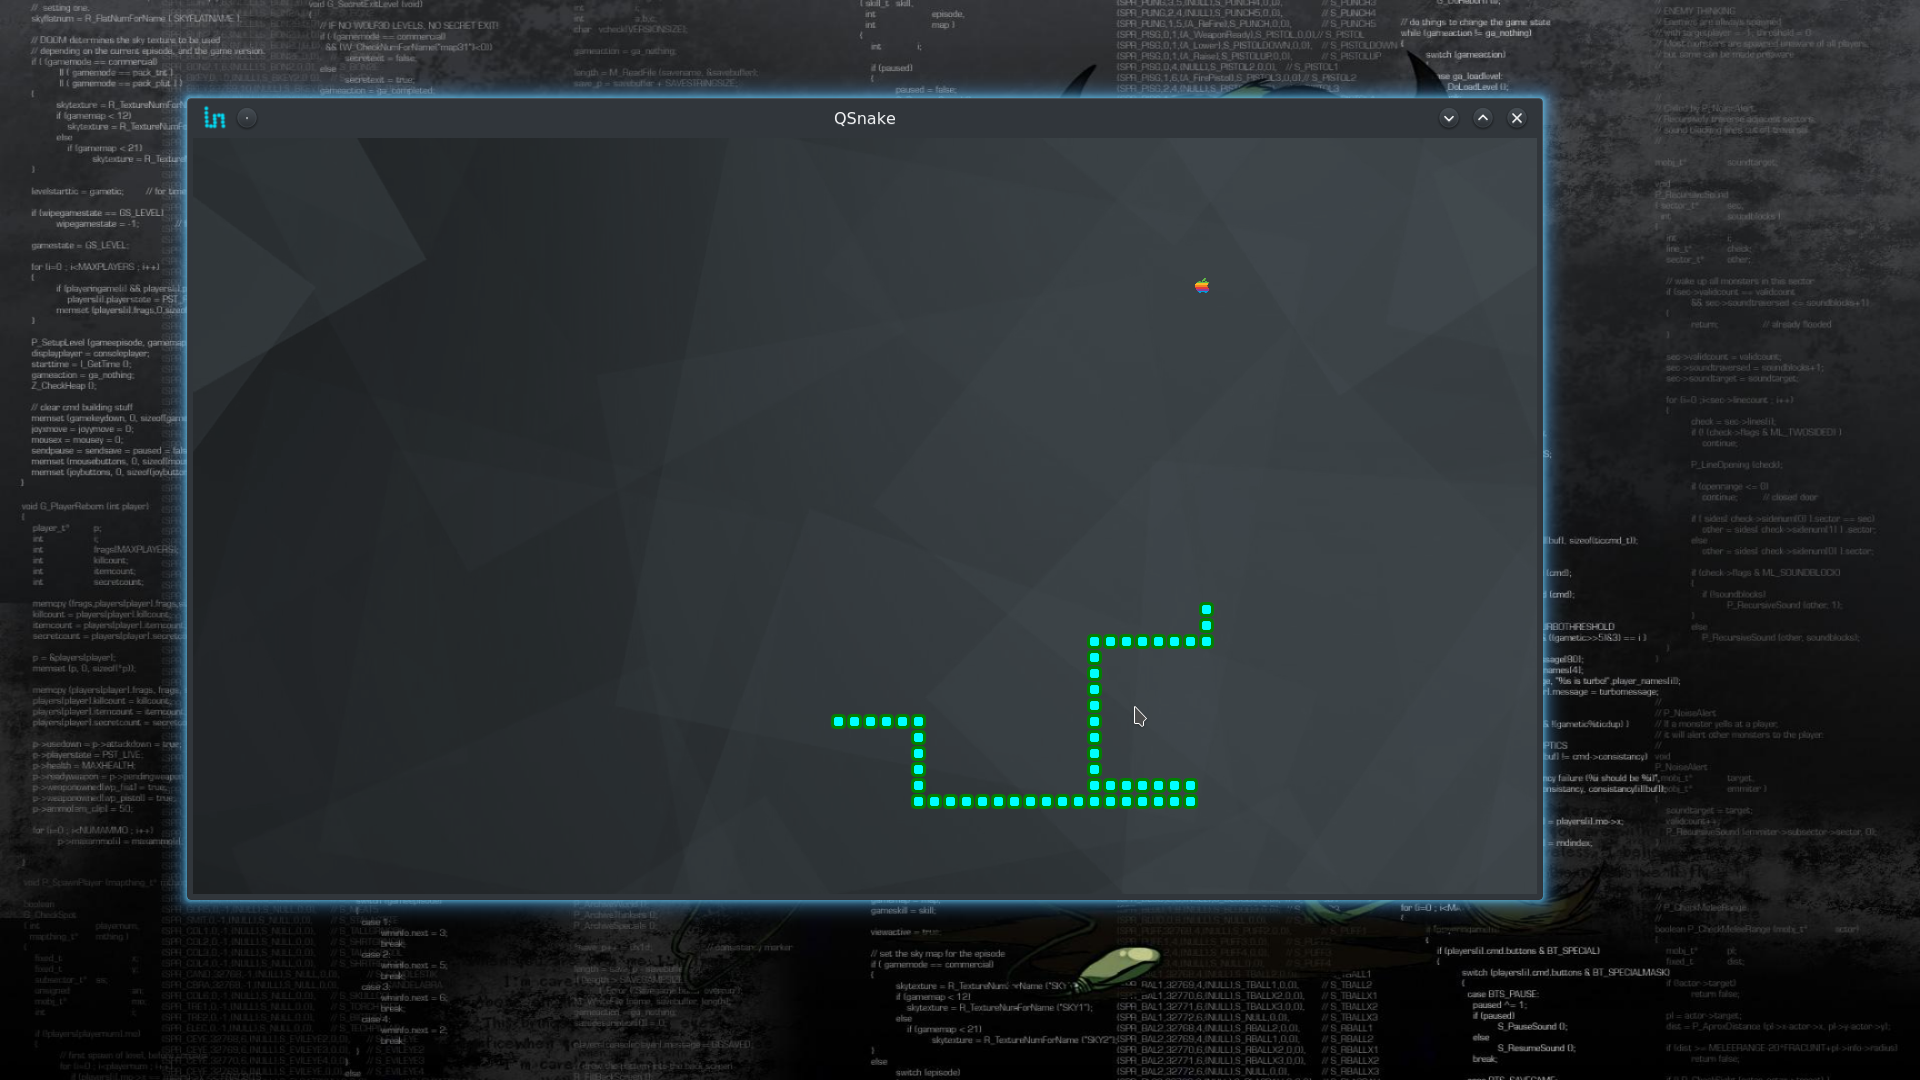
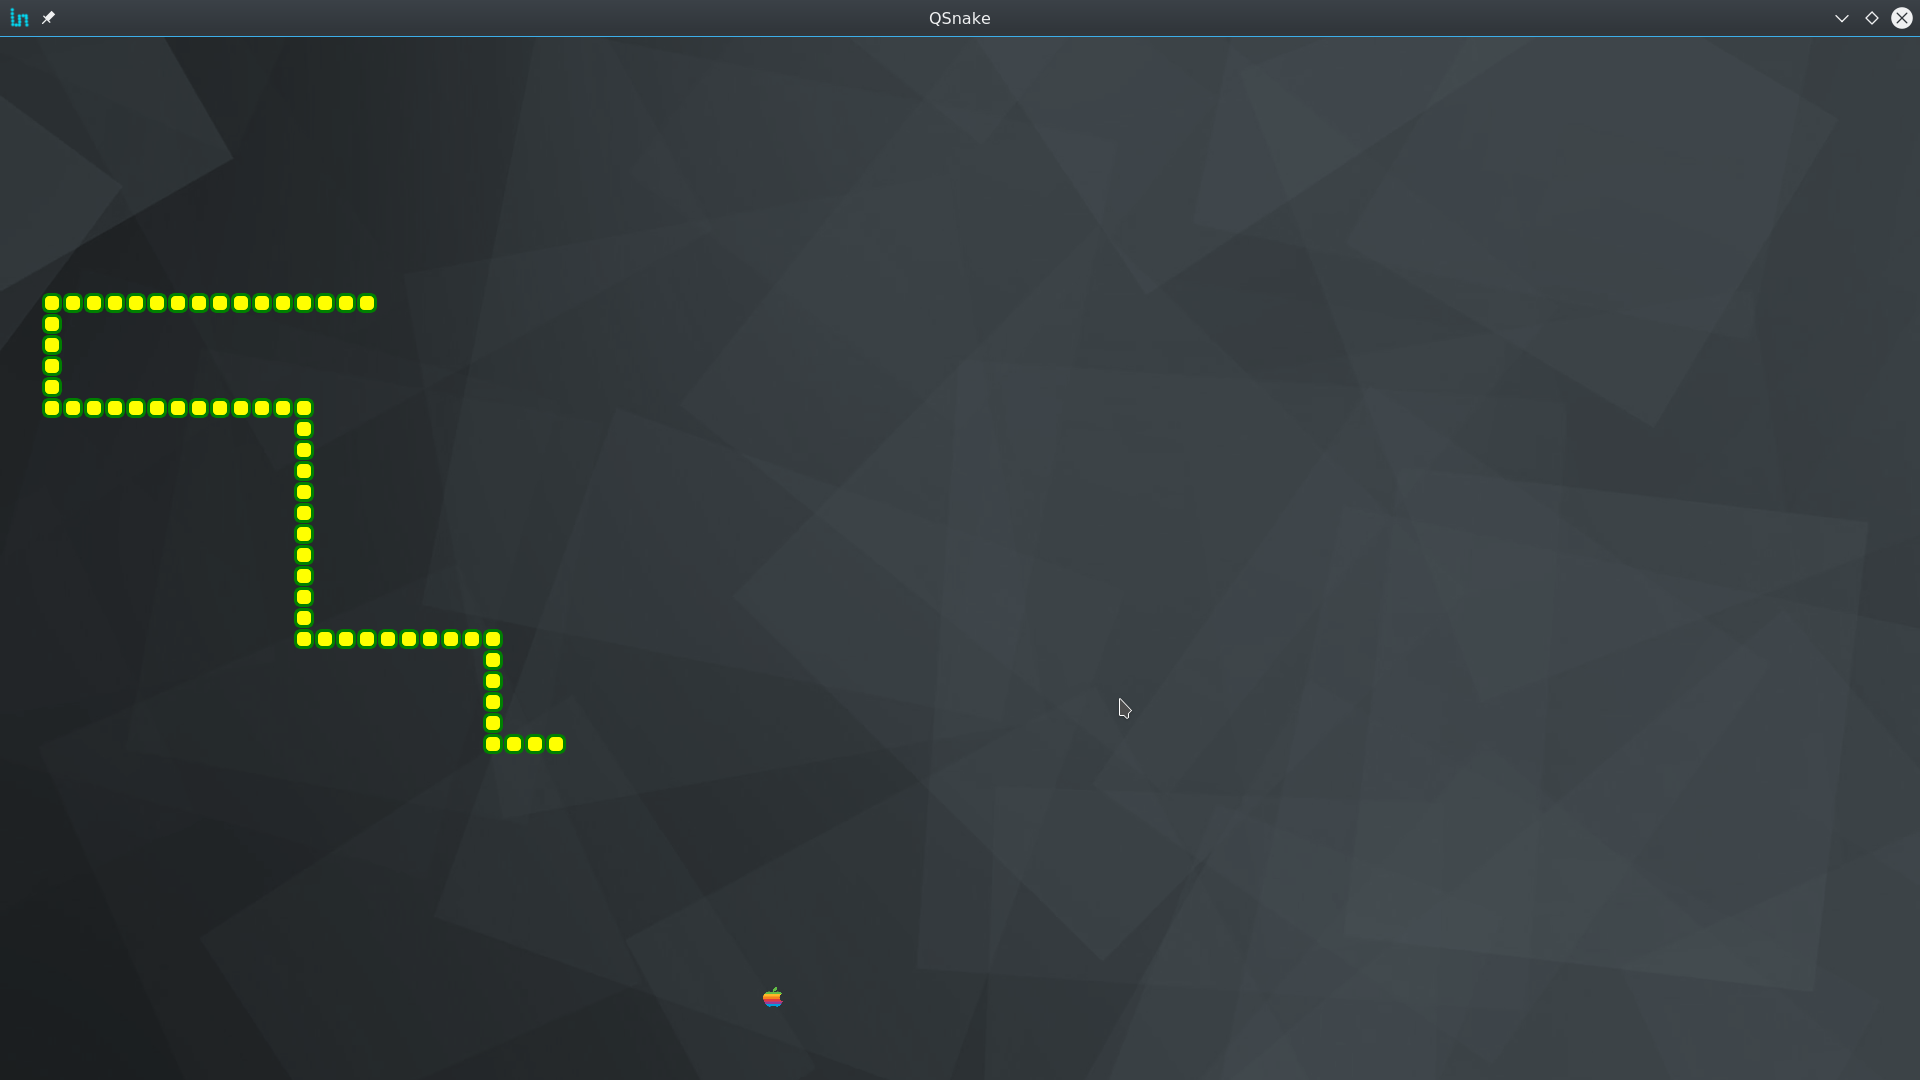
Increased snake size, added Queue and replaced vecore witht linked list

diff --git a/snake.cpp b/snake.cpp
@@ -17,8 +17,6 @@
 #include <QPushButton>
 #include <QApplication>
 
-#include <iostream>
-#include <unistd.h>
 
 QSize *Snake::BlockSize;
 
@@ -26,8 +24,10 @@ Snake::Snake(QWidget *Parent,QSize ParentSize):
 	QWidget(Parent),
 	timer(new QTimer(this))
 {
-	BlockSize = new QSize(15,15);
+	BlockSize = new QSize(20,20);
 	this->ParentSize = ParentSize;
+
+	Pending.push(d);
 
 	push(new Block(this));
 	push(new Block(this));
@@ -53,7 +53,7 @@ void Snake::push(Block *b , Direction pd)
 		return;
 	}
 	else
-		p = blocks[blocks.size()-1]->pos();
+		p = blocks.front()->pos();
 	QPoint des;
 	switch (pd)
 	{
@@ -86,28 +86,31 @@ void Snake::keyPressEvent(QKeyEvent *e)
 	{
 		case Qt::Key_W:
 		case Qt::Key_Up:
-			if(d!=DOWN)
+			if(d!=DOWN && Pending.front() != DOWN)
 				d = UP;
 			break;
 
 		case Qt::Key_A:
 		case Qt::Key_Left:
-			if(d!=RIGHT)
+			if(d!=RIGHT && Pending.front() != RIGHT)
 				d = LEFT;
 			break;
 
 		case Qt::Key_Down:
 		case Qt::Key_S:
-			if(d!=UP)
+			if(d!=UP && Pending.front() != UP)
 				d = DOWN;
 			break;
 
 		case Qt::Key_D:
 		case Qt::Key_Right:
-			if(d!=LEFT)
+			if(d!=LEFT && Pending.front() != LEFT)
 				d = RIGHT;
 			break;
 	}
+
+	if(Pending.front() != d)
+		Pending.push(d);
 
 }
 
@@ -115,7 +118,7 @@ void Snake::keyPressEvent(QKeyEvent *e)
 void Snake::Crawl()
 {
 
-	QPoint p = blocks.at(0)->pos();
+	QPoint p = blocks.front()->pos();
 	QPoint des;
 
 
@@ -152,7 +155,7 @@ void Snake::Crawl()
 	}
 	else
 	{
-		if(p.x() >  parentWidget()->geometry().width())
+		if(p.x() >  parentWidget()->geometry().width() )
 		{
 			des.setX(0);
 			des.setY(p.y());
@@ -178,9 +181,10 @@ void Snake::Crawl()
 			screencross = true;
 		}
 
-	}
+	}	
+
 	if(!screencross)
-		switch (d)
+		switch (Pending.front())
 		{
 			case LEFT:
 				des.setX(p.x()-BlockSize->width()-1);
@@ -200,14 +204,19 @@ void Snake::Crawl()
 				break;
 		}
 
-	Block *temp = blocks[blocks.size()-1];
+
+	if(Pending.size() > 1)
+		Pending.pop();
+
+
+	Block *temp = blocks.back();
 	temp->move(des);
 	blocks.pop_back();
 	blocks.insert(blocks.begin(),temp);
 
 	if(
-	   (blocks[0]->pos().x() <= fruit->pos().x()+10 && blocks[0]->pos().x() >= fruit->pos().x()-10) &&
-	   (blocks[0]->pos().y() <= fruit->pos().y()+10 && blocks[0]->pos().y() >= fruit->pos().y()-10)
+	   (blocks.front()->pos().x() <= fruit->pos().x()+20 && blocks.front()->pos().x() >= fruit->pos().x()-20) &&
+	   (blocks.front()->pos().y() <= fruit->pos().y()+20 && blocks.front()->pos().y() >= fruit->pos().y()-20)
 	  )
 	{
 		fruit->Eaten();
@@ -215,10 +224,11 @@ void Snake::Crawl()
 		for(int i = 0;i<8;i++)
 		{
 			New = new Block(this);
-			New->move(blocks[blocks.size()-1]->pos());
+			New->move(blocks.back()->pos());
 			blocks.push_back(New);
 		}
 	}
+
 
 	CheckHead();
 }
@@ -231,11 +241,11 @@ void Snake::setFruit(Fruit *fruit)
 void Snake::CheckHead()
 {
 	bool hited  = false;
-	for(uint i=2;i<blocks.size();i++)
+	std::for_each(++blocks.begin(),blocks.end(), [&](Block *i)
 	{
-		if(blocks[i]->pos() == blocks[0]->pos())
+		if(blocks.front()->pos() == i->pos())
 			hited = true;
-	}
+	});
 
 	if(hited)
 	{
@@ -256,8 +266,11 @@ void Snake::CheckHead()
 		connect(Quit,SIGNAL(clicked()),QApplication::instance(),SLOT(quit()));
 		connect(Retry,SIGNAL(clicked()),this,SLOT(Restart()));
 
+		hit->setParent(this);
+		hit->move(size().width()/2 - hit->size().width()/8 ,10);
+		hit->setAutoFillBackground(true);
+		hit->setWindowFlags(Qt::Widget);
 		hit->show();
-
 	}
 }
 
@@ -267,6 +280,11 @@ void Snake::Restart()
 
 	for(auto block : blocks)
 		delete block;
+	while(!Pending.empty())
+		Pending.pop();
+
+	d = RIGHT;
+	Pending.push(d);
 
 	blocks.clear();
 
@@ -274,7 +292,6 @@ void Snake::Restart()
 	push(new Block(this));
 	push(new Block(this));
 
-	d = RIGHT;
 
 	delete sender->parentWidget();
 	timer->start(speed);

diff --git a/fruit.cpp b/fruit.cpp
@@ -9,8 +9,8 @@
 #include <block.h>
 #include "snake.h"
 #include <cstdio>
+#include <ctime>
 
-#include <iostream>
 
 Fruit::Fruit(QWidget *parent,QSize ParentSize,Snake *snake):
 	QFrame(parent)
@@ -24,7 +24,7 @@ Fruit::Fruit(QWidget *parent,QSize ParentSize,Snake *snake):
 			"	border-image:url(\":/img/apple.png\");"
 			"};";
 	setStyleSheet(style);
-	setFixedSize(15,15);
+	setFixedSize(20,20);
 	move(100,200);
 
 }
@@ -38,20 +38,20 @@ void Fruit::Eaten()
 
 	if(Maximized)
 	{
-		point.rx() = RandXY(0,ParentSize.width());
-		point.ry() = RandXY(0,ParentSize.height());
+		point.rx() = RandXY(30,ParentSize.width()-30);
+		point.ry() = RandXY(30,ParentSize.height())-30;
 	}
 	else
 	{
-		point.rx() = RandXY(0,parentWidget()->geometry().width());
-		point.ry() = RandXY(0,parentWidget()->geometry().height());
+		point.rx() = RandXY(30,parentWidget()->geometry().width());
+		point.ry() = RandXY(30,parentWidget()->geometry().height());
 	}
 
 	for(auto block :snake->blocks)
 	{
 		if(
-		   (point.x() <= block->pos().x()+10 && point.x() >= block->pos().x()-10) &&
-		   (point.y() <= block->pos().y()+10 && point.y() >= block->pos().y()-10)
+		   (point.x() <= block->pos().x()+30 && point.x() >= block->pos().x()-30) &&
+		   (point.y() <= block->pos().y()+30 && point.y() >= block->pos().y()-30)
 		  )
 			goto sos;
 	}
@@ -61,6 +61,7 @@ void Fruit::Eaten()
 
 int Fruit::RandXY(int min,int max)
 {
+	srand(time(nullptr));
 	return min + (rand() % (max - min +1 ) );
 }
 

diff --git a/snake.h b/snake.h
@@ -10,9 +10,11 @@
 #define SNAKE_H
 
 #include <QTimer>
-#include <vector>
 #include <QWidget>
 #include <QSize>
+
+#include <list>
+#include <queue>
 
 class Fruit;
 
@@ -34,10 +36,12 @@ private:
 		QTimer *timer;
 		QSize ParentSize;
 		Fruit *fruit;
+		const int speed = 50;
+		std::queue<Direction> Pending;
+
 
 		void push(Block *b ,Direction pd=LEFT);
 		void CheckHead();
-		const int speed = 60;
 
 protected:
 		void keyPressEvent(QKeyEvent *event);
@@ -46,7 +50,7 @@ private slots:
 		void Crawl();
 		void Restart();
 public:
-		std::vector<Block*> blocks;
+		std::list<Block*> blocks;
 		void setFruit(Fruit *fruit);
 
 signals:

diff --git a/block.cpp b/block.cpp
@@ -16,7 +16,7 @@ Snake::Block::Block(QWidget *p):
 	(
 		"QFrame{"
 		"background-color: yellow;"
-		"border-radius: 5%;"
+		"border-radius: 7%;"
 		"border: 3px solid green;"
 		"}"
 	);

diff --git a/main.cpp b/main.cpp
@@ -13,6 +13,6 @@ int main(int argc,char **argv)
 {
 	QApplication app(argc,argv);
 	MainWindow win;
-	win.show();
+	win.showMaximized();
 	return app.exec();
 }
